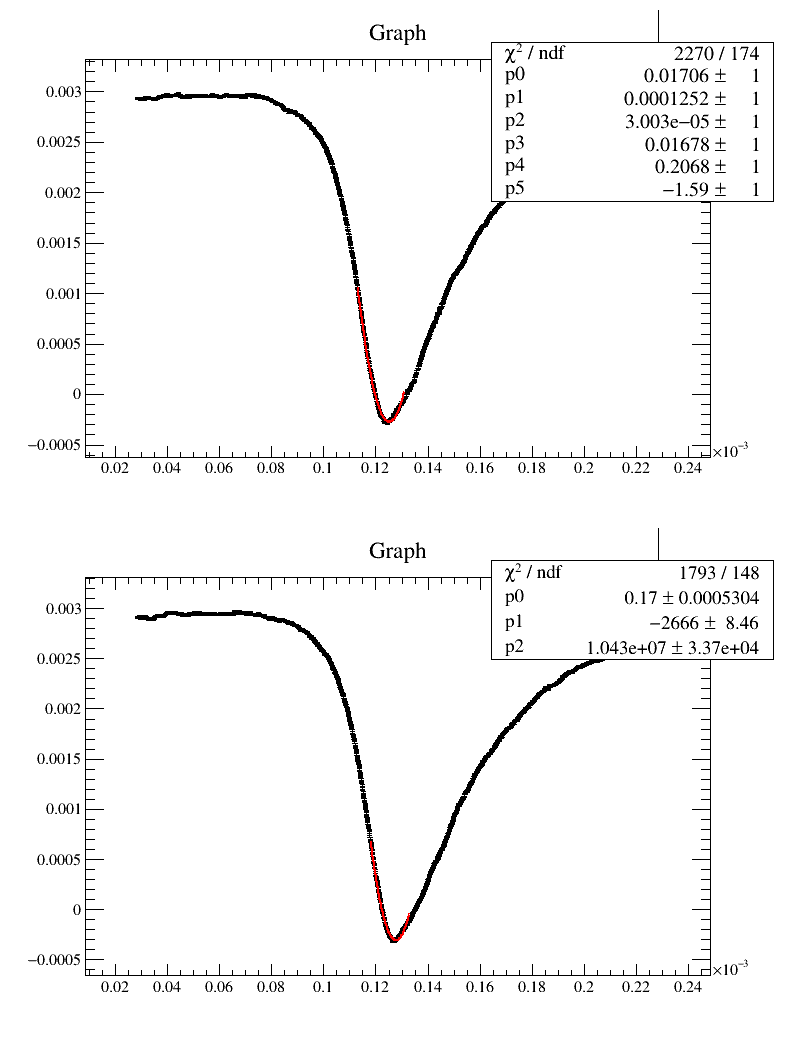
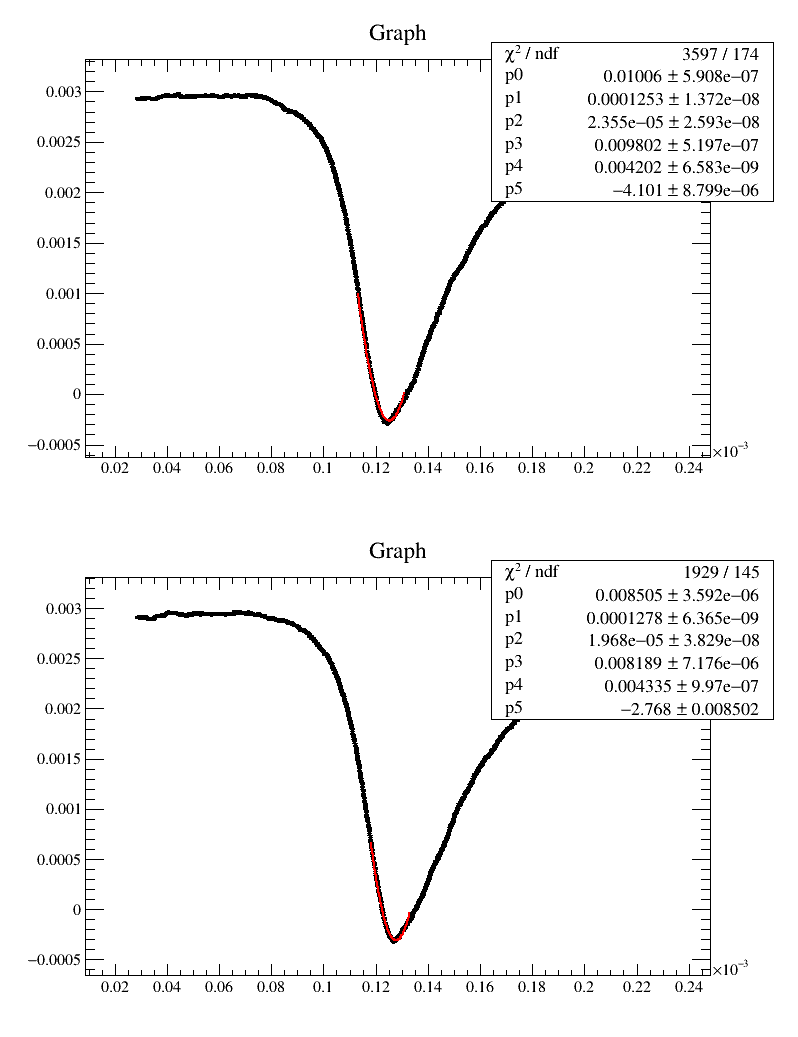
4-5のafのみfit parameterが違う

diff --git a/fit_normal_cdf.py b/fit_normal_cdf.py
@@ -1,0 +1,163 @@
+import pandas as pd
+import numpy as np
+import matplotlib.pyplot as plt
+import ROOT
+import time
+import glob
+
+peak = []
+delta_f_list = []
+Noise = 7.037*10**(-6)       # noise for df100-df168 [V]
+
+#f_file = 100
+#l_file = 119
+f_file = 120
+l_file = 129
+file_path = [] #データのpathをしまうlist.""で囲まれた文字列のリストになる.
+for i in range(f_file, l_file+1):
+    path = glob.glob("./WaveData/scope_%d.csv"% i)
+    file_path.append(path[0])
+
+#dir_path = "./peak/100-119/"
+dir_path = "./peak/120-129/normal_cdf/"
+
+Nshift = int(len(file_path)/2)
+
+for i in range(Nshift):
+    df_bf = pd.read_csv(file_path[2*i], names = ["time", "signal", "sync"], skiprows=2, skipfooter=1, engine="python")
+    df_af = pd.read_csv(file_path[2*i+1], names = ["time", "signal", "sync"], skiprows=2, skipfooter=1, engine="python")
+
+    c = ROOT.TCanvas("c", "title", 800, 1200)
+    c.Divide(1,2)
+    if i == 2:
+        c.cd(1)
+        gr_bf = ROOT.TGraphErrors(len(df_bf.time), np.array(df_bf.time), np.array(df_bf.signal), np.array([0.0 for i in range(len(df_bf.time))]), np.array([Noise for i in range(len(df_bf.time))]))
+
+        bf_fit = ROOT.TF1("f", "[3] - gaus(x,[0],[1],[2])*ROOT::Math::normal_cdf(x, [4], [5])", 0.113*10**(-3), 0.131*10**(-3))
+        #bf_fit.SetParameters(0.006587, 1.247*10**(-4), 1.826*10**(-5), 0.005733, 1, -1)
+        bf_fit.SetParameters(0.008505, 1.23*10**(-4), 1.97*10**(-5), 0.008189, 0.002095, -1.338)
+        gr_bf.Fit(bf_fit, "QR")
+        min = bf_fit.GetMinimumX(0.115*10**(-3), 0.131*10**(-3))
+        #print(min)
+        #par = [bf_fit.GetParameter(k) for k in range(bf_fit.GetNpar())]
+        #par_e = [bf_fit.GetParError(k) for k in range(bf_fit.GetNpar())]
+        #print(par_e)
+        #x0 = -par[1]/(2*par[2])
+        peak.append(min)
+        #print(peak)
+        gr_bf.SetMarkerStyle(7)
+        gr_bf.SetMarkerSize(4)
+        gr_bf.Draw("AP")
+        ROOT.gStyle.SetOptFit(1)
+        c.SetGridx()
+        c.SetGridy()
+        c.Draw("P")
+        gr_bf.Draw("P")
+        c.Update()
+
+        c.cd(2)
+        gr_af = ROOT.TGraphErrors(len(df_af.time), np.array(df_af.time), np.array(df_af.signal), np.array([0.0 for i in range(len(df_af.time))]), np.array([Noise for i in range(len(df_af.time))]))
+        af_fit = ROOT.TF1("f", "[3] - gaus(x,[0],[1],[2])*ROOT::Math::normal_cdf(x, [4], [5])", 0.115*10**(-3), 0.133*10**(-3))
+        #af_fit.SetParameters(0.006587, 1.247*10**(-4), 1.826*10**(-5), 0.005733, 1, -1)
+        af_fit.SetParameters(0.008505, 1.27*10**(-4), 1.97*10**(-5), 0.008189, 0.002795, -3.27)
+        gr_af.Fit(af_fit, "QR")
+        min = af_fit.GetMinimumX(0.118*10**(-3), 0.133*10**(-3))
+        peak.append(min)
+        #print(peak)
+        gr_af.SetMarkerStyle(7)
+        gr_af.SetMarkerSize(4)
+        gr_af.Draw("AP")
+        ROOT.gStyle.SetOptFit(1)
+        c.SetGridx()
+        c.SetGridy()
+        c.Draw("P")
+        gr_af.Draw("P")
+        c.Update()
+
+        #time.sleep(10000)
+        c.SaveAs(dir_path + str(2*i) + "-" + str(2*i+1) + ".png")
+
+        delta_t = peak[2*i+1]-peak[2*i]
+        F_mod = 4001
+        F_dev = 500*10**3
+        delta_f = delta_t*F_mod*F_dev
+        delta_f_list.append(delta_f)
+        #print("delta_t = " + str(delta_t))
+        #print("delta_f = " + str(delta_f))
+
+    else:
+        c.cd(1)
+        gr_bf = ROOT.TGraphErrors(len(df_bf.time), np.array(df_bf.time), np.array(df_bf.signal), np.array([0.0 for i in range(len(df_bf.time))]), np.array([Noise for i in range(len(df_bf.time))]))
+
+        #bf_fit = ROOT.TF1("f", "[3] - gaus(x,[0],[1],[2])*ROOT::Math::normal_cdf(x, [4], [5])", 0.113*10**(-3), 0.131*10**(-3))
+        bf_fit = ROOT.TF1("f", "[3] - gaus(x,[0],[1],[2])*ROOT::Math::normal_cdf(x, [4], [5])", 0.116*10**(-3), 0.131*10**(-3))
+        #bf_fit.SetParameters(0.006587, 1.247*10**(-4), 1.826*10**(-5), 0.005733, 1, -1)
+        bf_fit.SetParameters(0.01, 1.24*10**(-4), 1.97*10**(-5), 0.008189, 0.002095, -1.338)
+        gr_bf.Fit(bf_fit, "QR")
+        min = bf_fit.GetMinimumX(0.115*10**(-3), 0.131*10**(-3))
+        #print(min)
+        #par = [bf_fit.GetParameter(k) for k in range(bf_fit.GetNpar())]
+        #par_e = [bf_fit.GetParError(k) for k in range(bf_fit.GetNpar())]
+        #print(par_e)
+        #x0 = -par[1]/(2*par[2])
+        peak.append(min)
+        #print(peak)
+        gr_bf.SetMarkerStyle(7)
+        gr_bf.SetMarkerSize(4)
+        gr_bf.Draw("AP")
+        ROOT.gStyle.SetOptFit(1)
+        c.SetGridx()
+        c.SetGridy()
+        c.Draw("P")
+        gr_bf.Draw("P")
+        c.Update()
+
+
+        c.cd(2)
+        c.SetGridx()
+        c.SetGridy()
+        gr_af = ROOT.TGraphErrors(len(df_af.time), np.array(df_af.time), np.array(df_af.signal), np.array([0.0 for i in range(len(df_af.time))]), np.array([Noise for i in range(len(df_af.time))]))
+        af_fit = ROOT.TF1("f", "[3] - gaus(x,[0],[1],[2])*ROOT::Math::normal_cdf(x, [4], [5])", 0.118*10**(-3), 0.133*10**(-3))
+        #af_fit.SetParameters(0.006587, 1.247*10**(-4), 1.826*10**(-5), 0.005733, 1, -1)
+        af_fit.SetParameters(0.008505, 1.278*10**(-4), 1.97*10**(-5), 0.008189, 0.002095, -1.338)
+        gr_af.Fit(af_fit, "QR")
+        min = af_fit.GetMinimumX(0.118*10**(-3), 0.133*10**(-3))
+        peak.append(min)
+        #print(peak)
+        gr_af.SetMarkerStyle(7)
+        gr_af.SetMarkerSize(4)
+        gr_af.Draw("AP")
+        ROOT.gStyle.SetOptFit(1)
+        c.Draw("P")
+        gr_af.Draw("P")
+
+        c.Update()
+
+        time.sleep(10000)
+        c.SaveAs(dir_path + str(2*i) + "-" + str(2*i+1) + ".png")
+
+        delta_t = peak[2*i+1]-peak[2*i]
+        F_mod = 4001
+        F_dev = 500*10**3
+        delta_f = delta_t*F_mod*F_dev
+        delta_f_list.append(delta_f)
+        #print("delta_t = " + str(delta_t))
+        #print("delta_f = " + str(delta_f))
+
+print(delta_f_list)
+
+c = ROOT.TCanvas("c", "title", 800, 600)
+gr = ROOT.TGraph(Nshift, np.linspace(1, Nshift, Nshift), np.array(delta_f_list))
+gr.SetMarkerStyle(3)
+gr.SetMarkerSize(1)
+gr.GetXaxis().CenterTitle(True)
+gr.GetXaxis().SetTitle("number of measurment")
+gr.GetYaxis().CenterTitle(True)
+gr.GetYaxis().SetTitle("EPR freq. shift [Hz]")
+#ROOT.gStyle.SetOptFit(1)
+gr.Draw("AP")
+#c1 = ROOT.gROOT.FindObject("c1")
+c.Draw("same")
+c.SaveAs(dir_path + "EPR_Freq_Shift.png")
+#time.sleep(10000)
+
